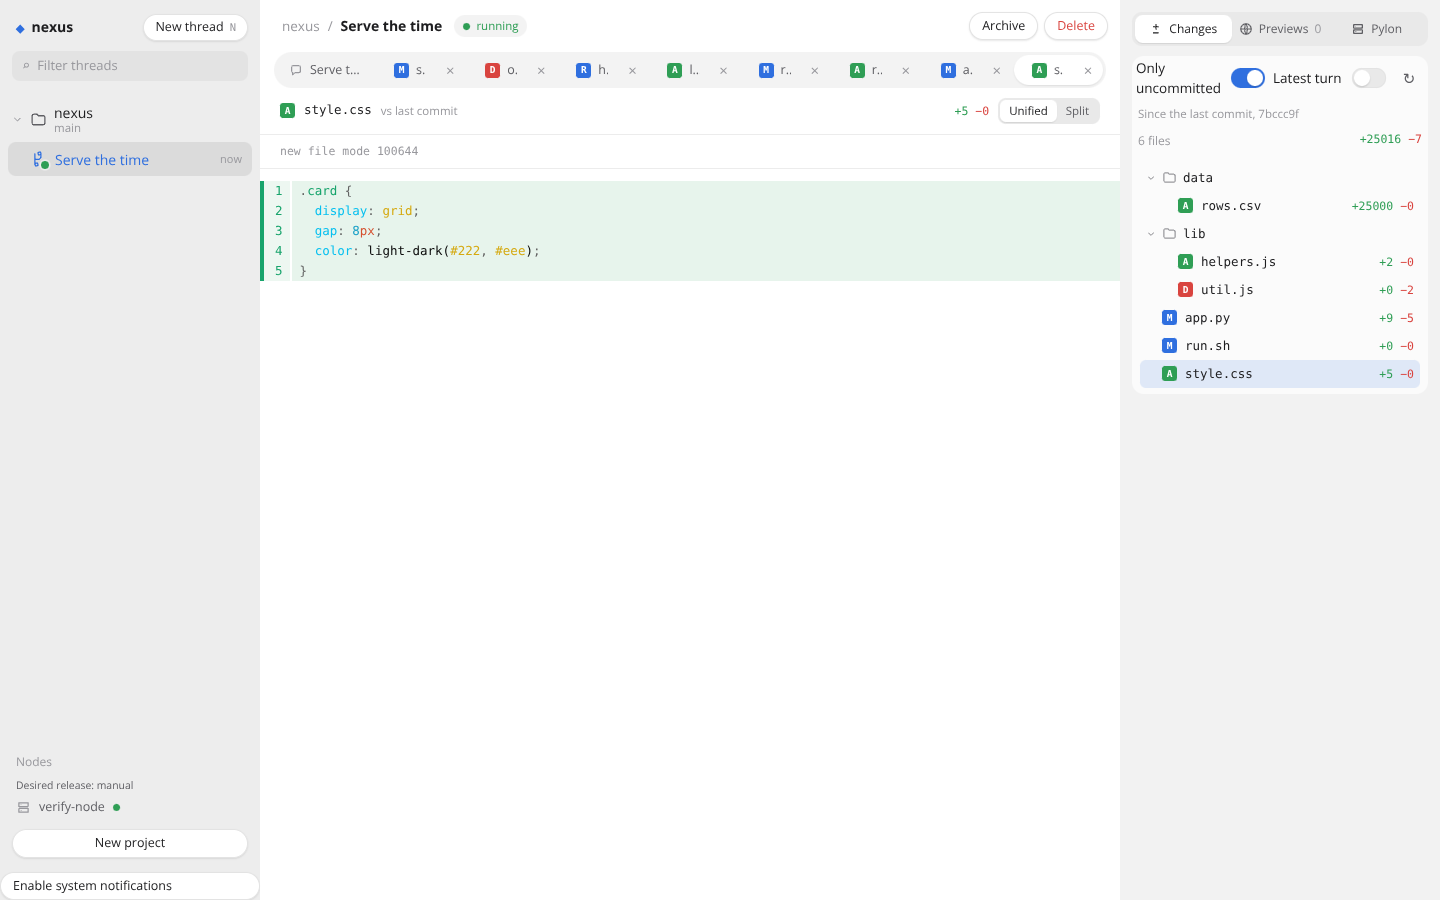
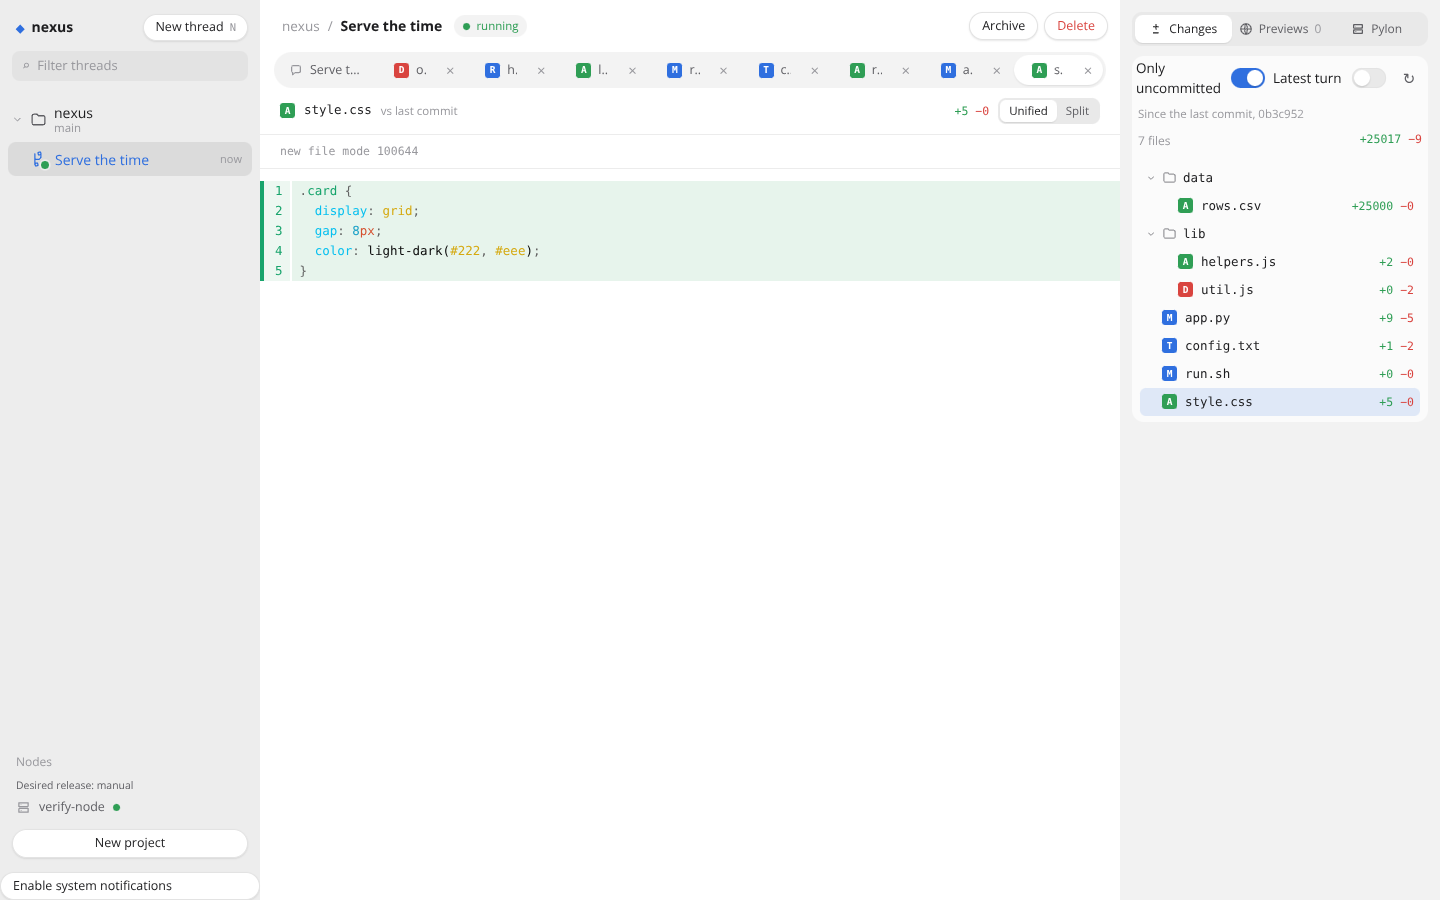
docs(verification): capture a symlink change and measure a long diff

diff --git a/docs/verification/pierre-diffs/stack.ts b/docs/verification/pierre-diffs/stack.ts
@@ -5,7 +5,7 @@
 //
 //   node docs/verification/pierre-diffs/stack.ts
 import { execFileSync } from "node:child_process";
-import { chmodSync, mkdirSync, mkdtempSync, renameSync, rmSync, writeFileSync } from "node:fs";
+import { chmodSync, mkdirSync, mkdtempSync, renameSync, rmSync, symlinkSync, writeFileSync } from "node:fs";
 import { tmpdir } from "node:os";
 import { join } from "node:path";
 import { startApi } from "../../../src/control/api.ts";
@@ -64,6 +64,7 @@ write("old.go", "package old\n\n// Answer is kept for the old clients.\nfunc Ans
 write("docs/guide.md", "# Guide\n\nRun `npm ci`, then `npm test`.\n");
 write("lib/util.js", "export const sum = (xs) => xs.reduce((a, b) => a + b, 0);\nexport const mean = (xs) => sum(xs) / xs.length;\n");
 write("run.sh", "#!/bin/sh\nnode src/server.ts\n");
+write("config.txt", "port=8080\nhost=127.0.0.1\n");
 git("add", "-A");
 git("commit", "-q", "-m", "base");
 git("update-ref", "refs/nexus/base", "HEAD");
@@ -140,6 +141,8 @@ if __name__ == "__main__":
 `);
 write("style.css", ".card {\n  display: grid;\n  gap: 8px;\n  color: light-dark(#222, #eee);\n}\n");
 chmodSync(join(repo, "run.sh"), 0o755);
+rmSync(join(repo, "config.txt"));
+symlinkSync("config/defaults.txt", join(repo, "config.txt"));
 git("mv", "lib/util.js", "lib/helpers.js");
 write("lib/helpers.js", "export const sum = (xs) => xs.reduce((a, b) => a + b, 0);\nexport const mean = (xs) => (xs.length === 0 ? 0 : sum(xs) / xs.length);\n");
 write("data/rows.csv", Array.from({ length: 25_000 }, (_, i) => `${i},row ${i},${(i * 7) % 100}`).join("\n") + "\n");

diff --git a/docs/verification/pierre-diffs/README.md b/docs/verification/pierre-diffs/README.md
@@ -7,7 +7,7 @@ Chromium. No live control plane, node, image or other thread was touched.
 
 `stack.ts` runs the real registry, API and dashboard on `127.0.0.1:7470` with one running
 thread. Its checkout is a fixture repository the stack makes, with a TypeScript edit, a
-deleted Go file, a pure rename, a mode change, a binary file, a 25,000-line CSV, a Python
+deleted Go file, a pure rename, a mode change, a file that became a symlink, a binary file, a 25,000-line CSV, a Python
 edit since a latest-turn snapshot and an uncommitted CSS file. The probe is a fake whose
 raw pipe runs the real checkout helper on this machine against that repository, so the
 Changes view and each diff come from real git output.
@@ -31,9 +31,15 @@ dashboard code, and the `after-*` captures are the branch.
 - `after-deleted.png`, `after-renamed.png`, `after-mode.png`, `after-binary.png`. A deletion
   shows its removed lines. A pure rename and a mode change list their git lines and say "No
   lines changed." A binary file says there is no diff to show. These notes read as before.
+- `after-typechange.png`. A file that became a symlink shows both of git's entries for
+  it, the removed file's lines and the link's target, as Changes counts them (+1 −2).
 - `after-long.png`. The 25,000-line CSV shows its first 20,000 rows and the cut-short note
   below them, as before. It drew 1.4 s after the click on a cold page, including the
-  grammar's fetch.
+  grammar's fetch. The page cuts the patch at the cap before it parses or highlights it.
+  A 500,000-line addition (1.9 MB, under the API's 4 MiB cap) written into the fixture by
+  hand drew 20,000 rows and the note in 0.5 s. The highest JS heap sampled while it drew
+  was 53 MiB, against 887 MiB a review measured before the cut moved ahead of the
+  highlighter.
 - `after.log`. No CSP violation and no page error, under the page's unchanged policy. The
   page loaded `client.js` and one small shared chunk before any diff opened. The library and
   each grammar came later, only for the languages opened: TypeScript, Go, CSV, Python and
